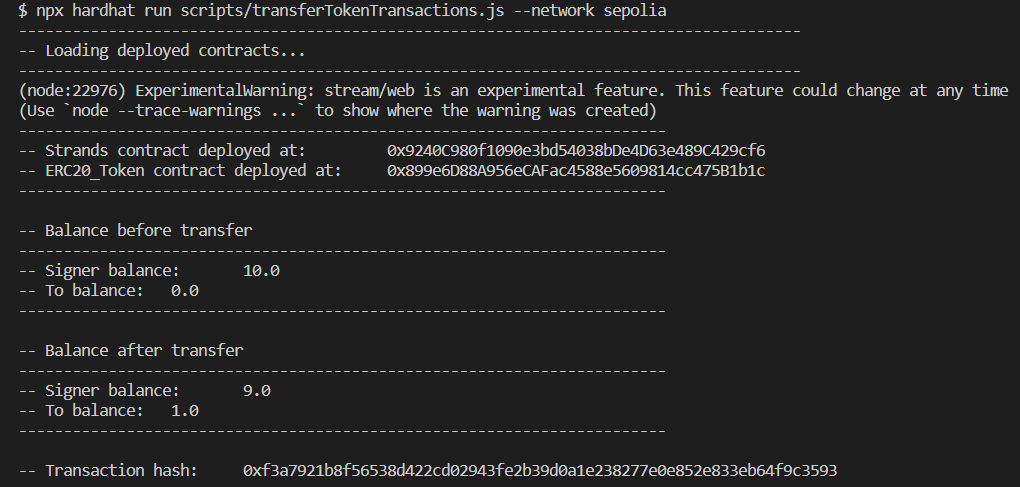
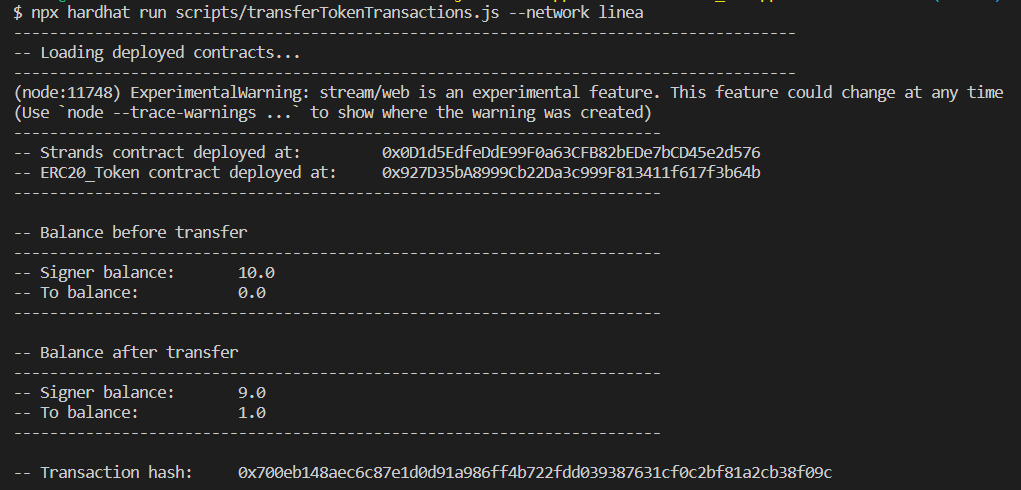
Updated to deploy on Linea network

diff --git a/hardhat.config.js b/hardhat.config.js
@@ -1,14 +1,14 @@
 require('dotenv').config();
 require('@nomiclabs/hardhat-ethers');
 require('solidity-coverage');
-require("@nomicfoundation/hardhat-verify");
+require("@nomiclabs/hardhat-etherscan");
 
 
 /**
  * @type import('hardhat/config').HardhatUserConfig
  */
 module.exports = {
-  solidity: "0.8.21",
+  solidity: "0.8.19",
   paths: {
     sources: "./src",
     tests: "./test",
@@ -16,18 +16,27 @@ module.exports = {
     artifacts: "./artifacts"
   },
   networks: {
-    sepolia: {
-        chainId:  11155111,
+    linea: {
+        chainId:  59140,
         timeout:  20000,
-        gasPrice: 8000000000,
         gas:      "auto",
-        name:     "Sepolia",		
-		url:      process.env.SEPOLIA_ACCESSPOINT_URL,
-		from:     process.env.SEPOLIA_ACCOUNT,
-        accounts: [process.env.SEPOLIA_PRIVATE_KEY]
+        name:     "Linea",		
+		url:      process.env.LINEA_ACCESSPOINT_URL,
+		from:     process.env.LINEA_ACCOUNT,
+        accounts: [process.env.LINEA_PRIVATE_KEY]
 	  }
   },
   etherscan: {
-    apiKey: process.env.ETHERSCAN_APIKEY
+    apiKey: process.env.LINEA_APIKEY,
+    customChains: [
+      {
+        network: "linea",
+        chainId: 59140,
+        urls: {
+          apiURL: "https://api-testnet.lineascan.build/api",
+          browserURL: "https://goerli.lineascan.build/"
+        }
+      }
+    ]
   }
 };

diff --git a/README.md b/README.md
@@ -8,9 +8,9 @@ This is my sample repository for the admission test for the position "Senior Sma
 #### Deployed contract address on Sepolia testnet
 
 * Strands contract address: 0x9240C980f1090e3bd54038bDe4D63e489C429cf6
-* [Link to the contract verified in EtherScan:](https://sepolia.etherscan.io/address/0x9240C980f1090e3bd54038bDe4D63e489C429cf6#code)
-* [Token transfer transaction link:](https://sepolia.etherscan.io/tx/0xf3a7921b8f56538d422cd02943fe2b39d0a1e238277e0e852e833eb64f9c3593)
-* [Eth transfer transaction link:](https://sepolia.etherscan.io/tx/0xd3cd1eb926a65227f5aa7c70885deec0661ac864ded60a11d56b5f5a3d12e8cf)
+* [Link to the contract verified in LineaScan:](https://goerli.lineascan.build/address/0x0d1d5edfedde99f0a63cfb82bede7bcd45e2d576#code)
+* [Token transfer transaction link:](https://goerli.lineascan.build/tx/0x700eb148aec6c87e1d0d91a986ff4b722fdd039387631cf0c2bf81a2cb38f09c)
+* [Eth transfer transaction link:](https://goerli.lineascan.build/tx/0xd534ab44188c5109e13799b1554614fd7e348964710f8902e9fa72d9e8191ec2)
 
 #### Folders
 
@@ -65,7 +65,7 @@ This is my sample repository for the admission test for the position "Senior Sma
 * chai: ^4.3.7,
 * ethereum-waffle: ^4.0.10
 * hardhat-contract-sizer: ^2.8.0
-* @nomicfoundation/hardhat-verify: ^1.1.0
+* @nomiclabs/hardhat-etherscan: ^3.1.7
 
 ### Repository setup instructions
 
@@ -105,14 +105,14 @@ Test run on virtual hardhat network:
 
 #### transferToken
 
-* Transaction hash on the Sepolia network: 0xf3a7921b8f56538d422cd02943fe2b39d0a1e238277e0e852e833eb64f9c3593
+* Transaction hash on the Linea network: 0x700eb148aec6c87e1d0d91a986ff4b722fdd039387631cf0c2bf81a2cb38f09c
 * Amount of tokens transferred: 1
 
 ![Alt text](image-2.png)
 
 #### transferEth
 
-* Transaction hash on the Sepolia network: 0xd3cd1eb926a65227f5aa7c70885deec0661ac864ded60a11d56b5f5a3d12e8cf
+* Transaction hash on the Linea network: 0xd534ab44188c5109e13799b1554614fd7e348964710f8902e9fa72d9e8191ec2
 * Amount transferred: 1000 wei
 
 ![Alt text](image-3.png)
